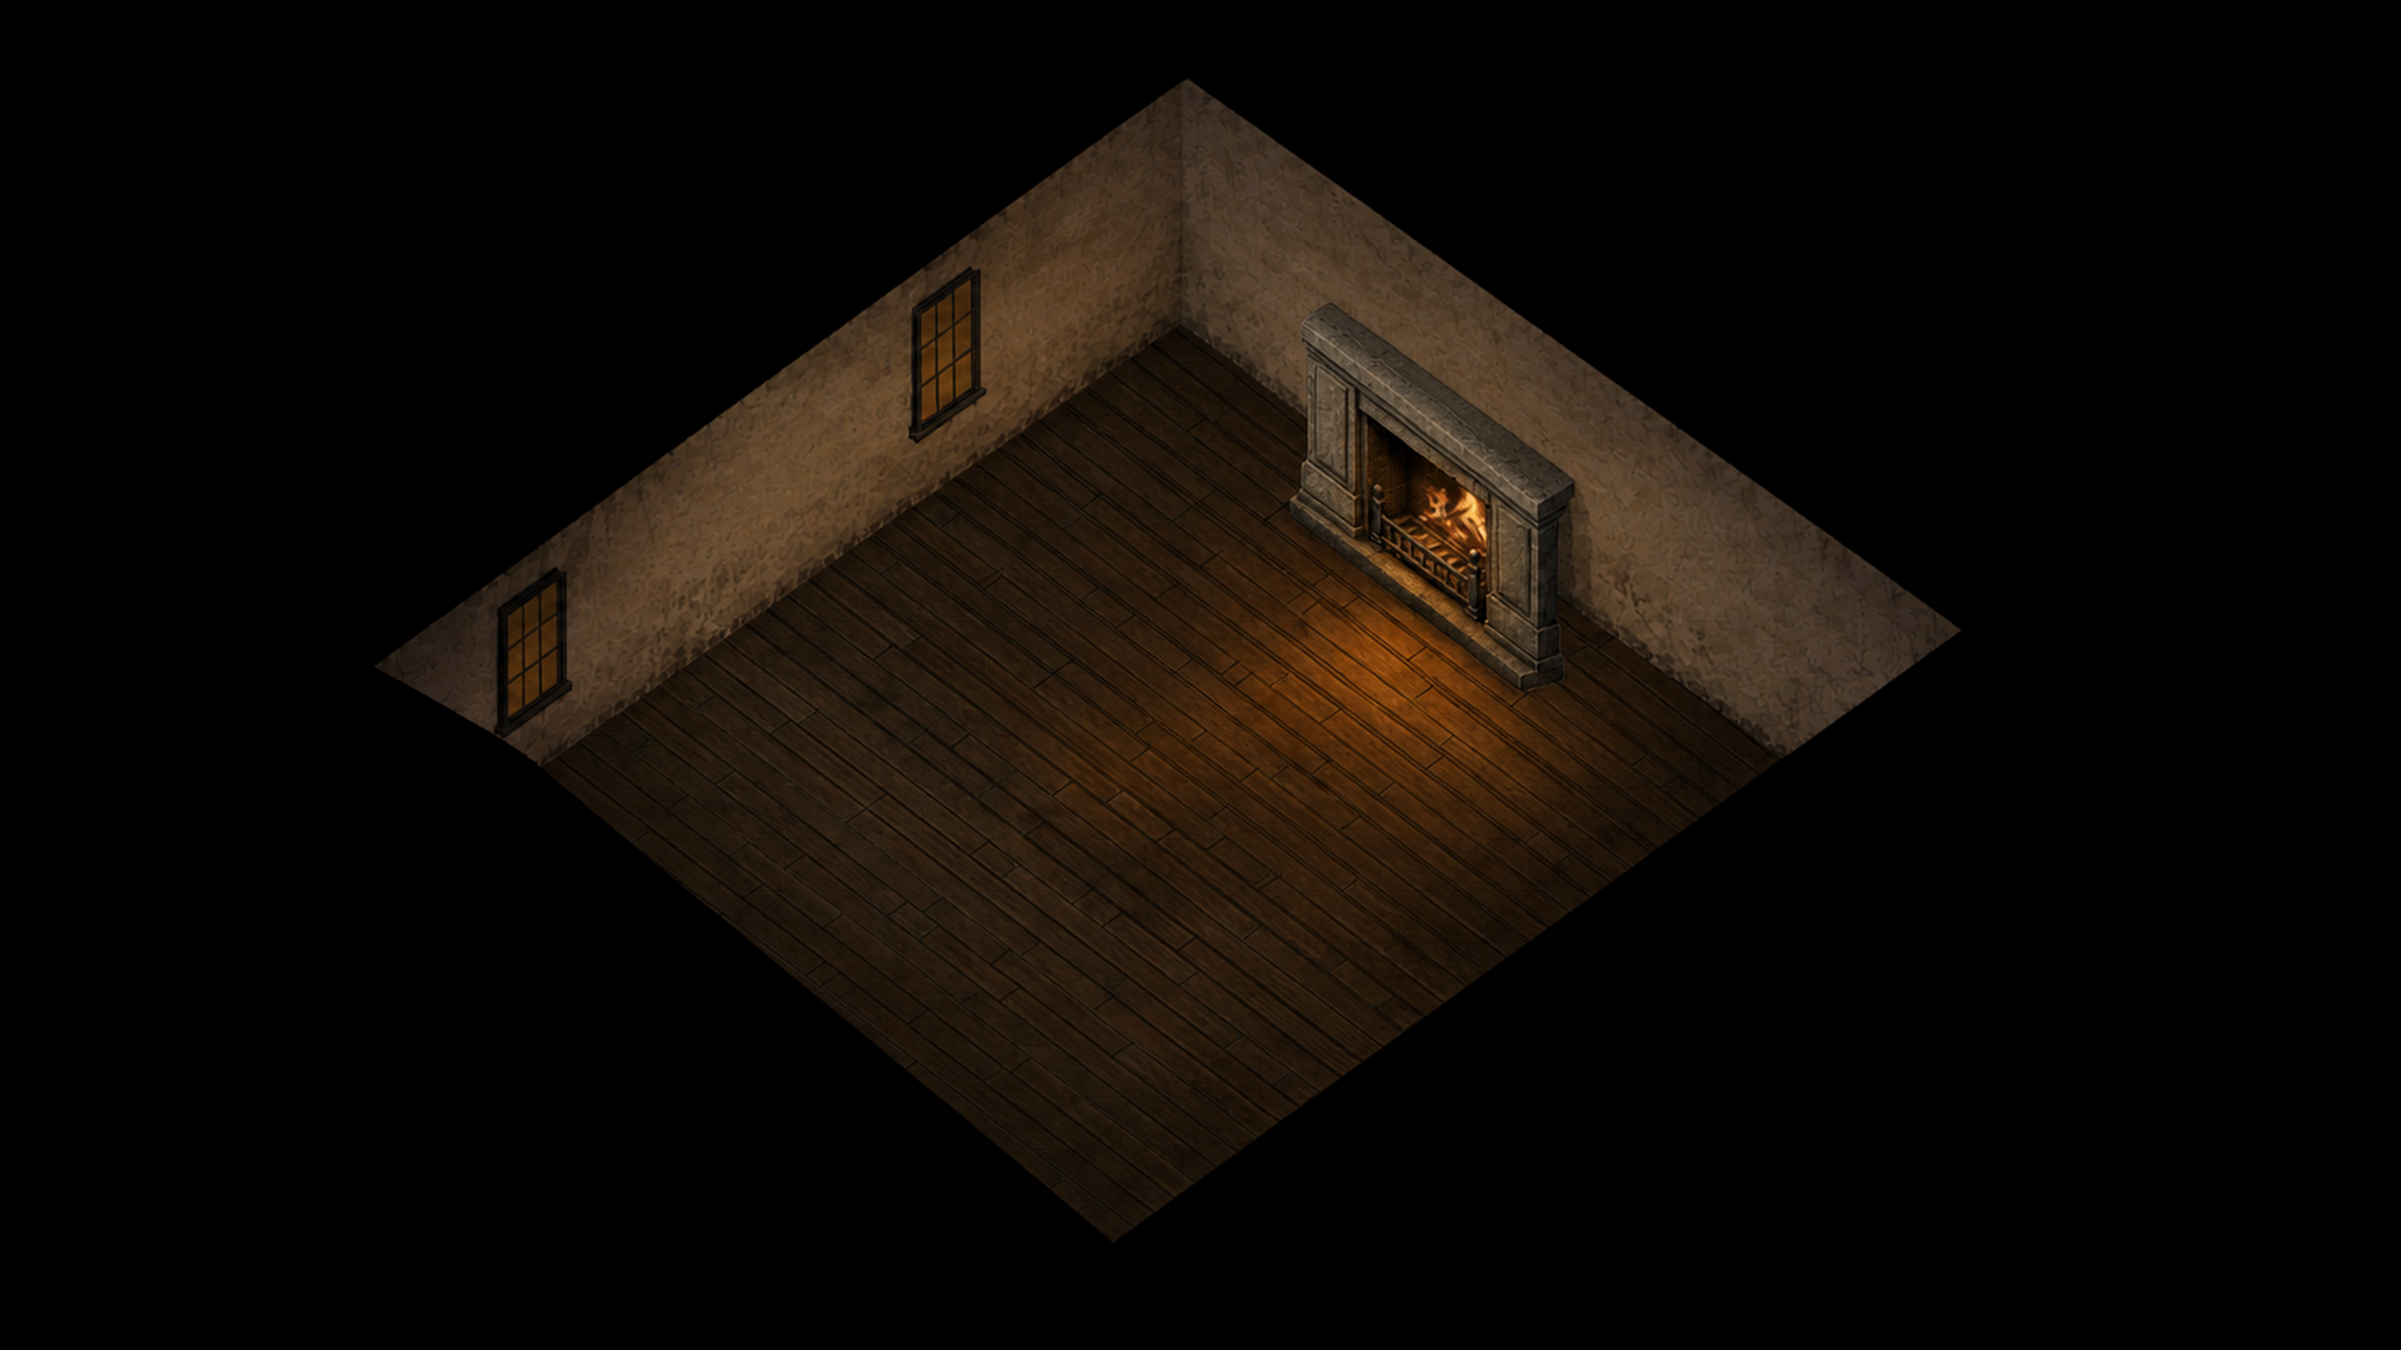
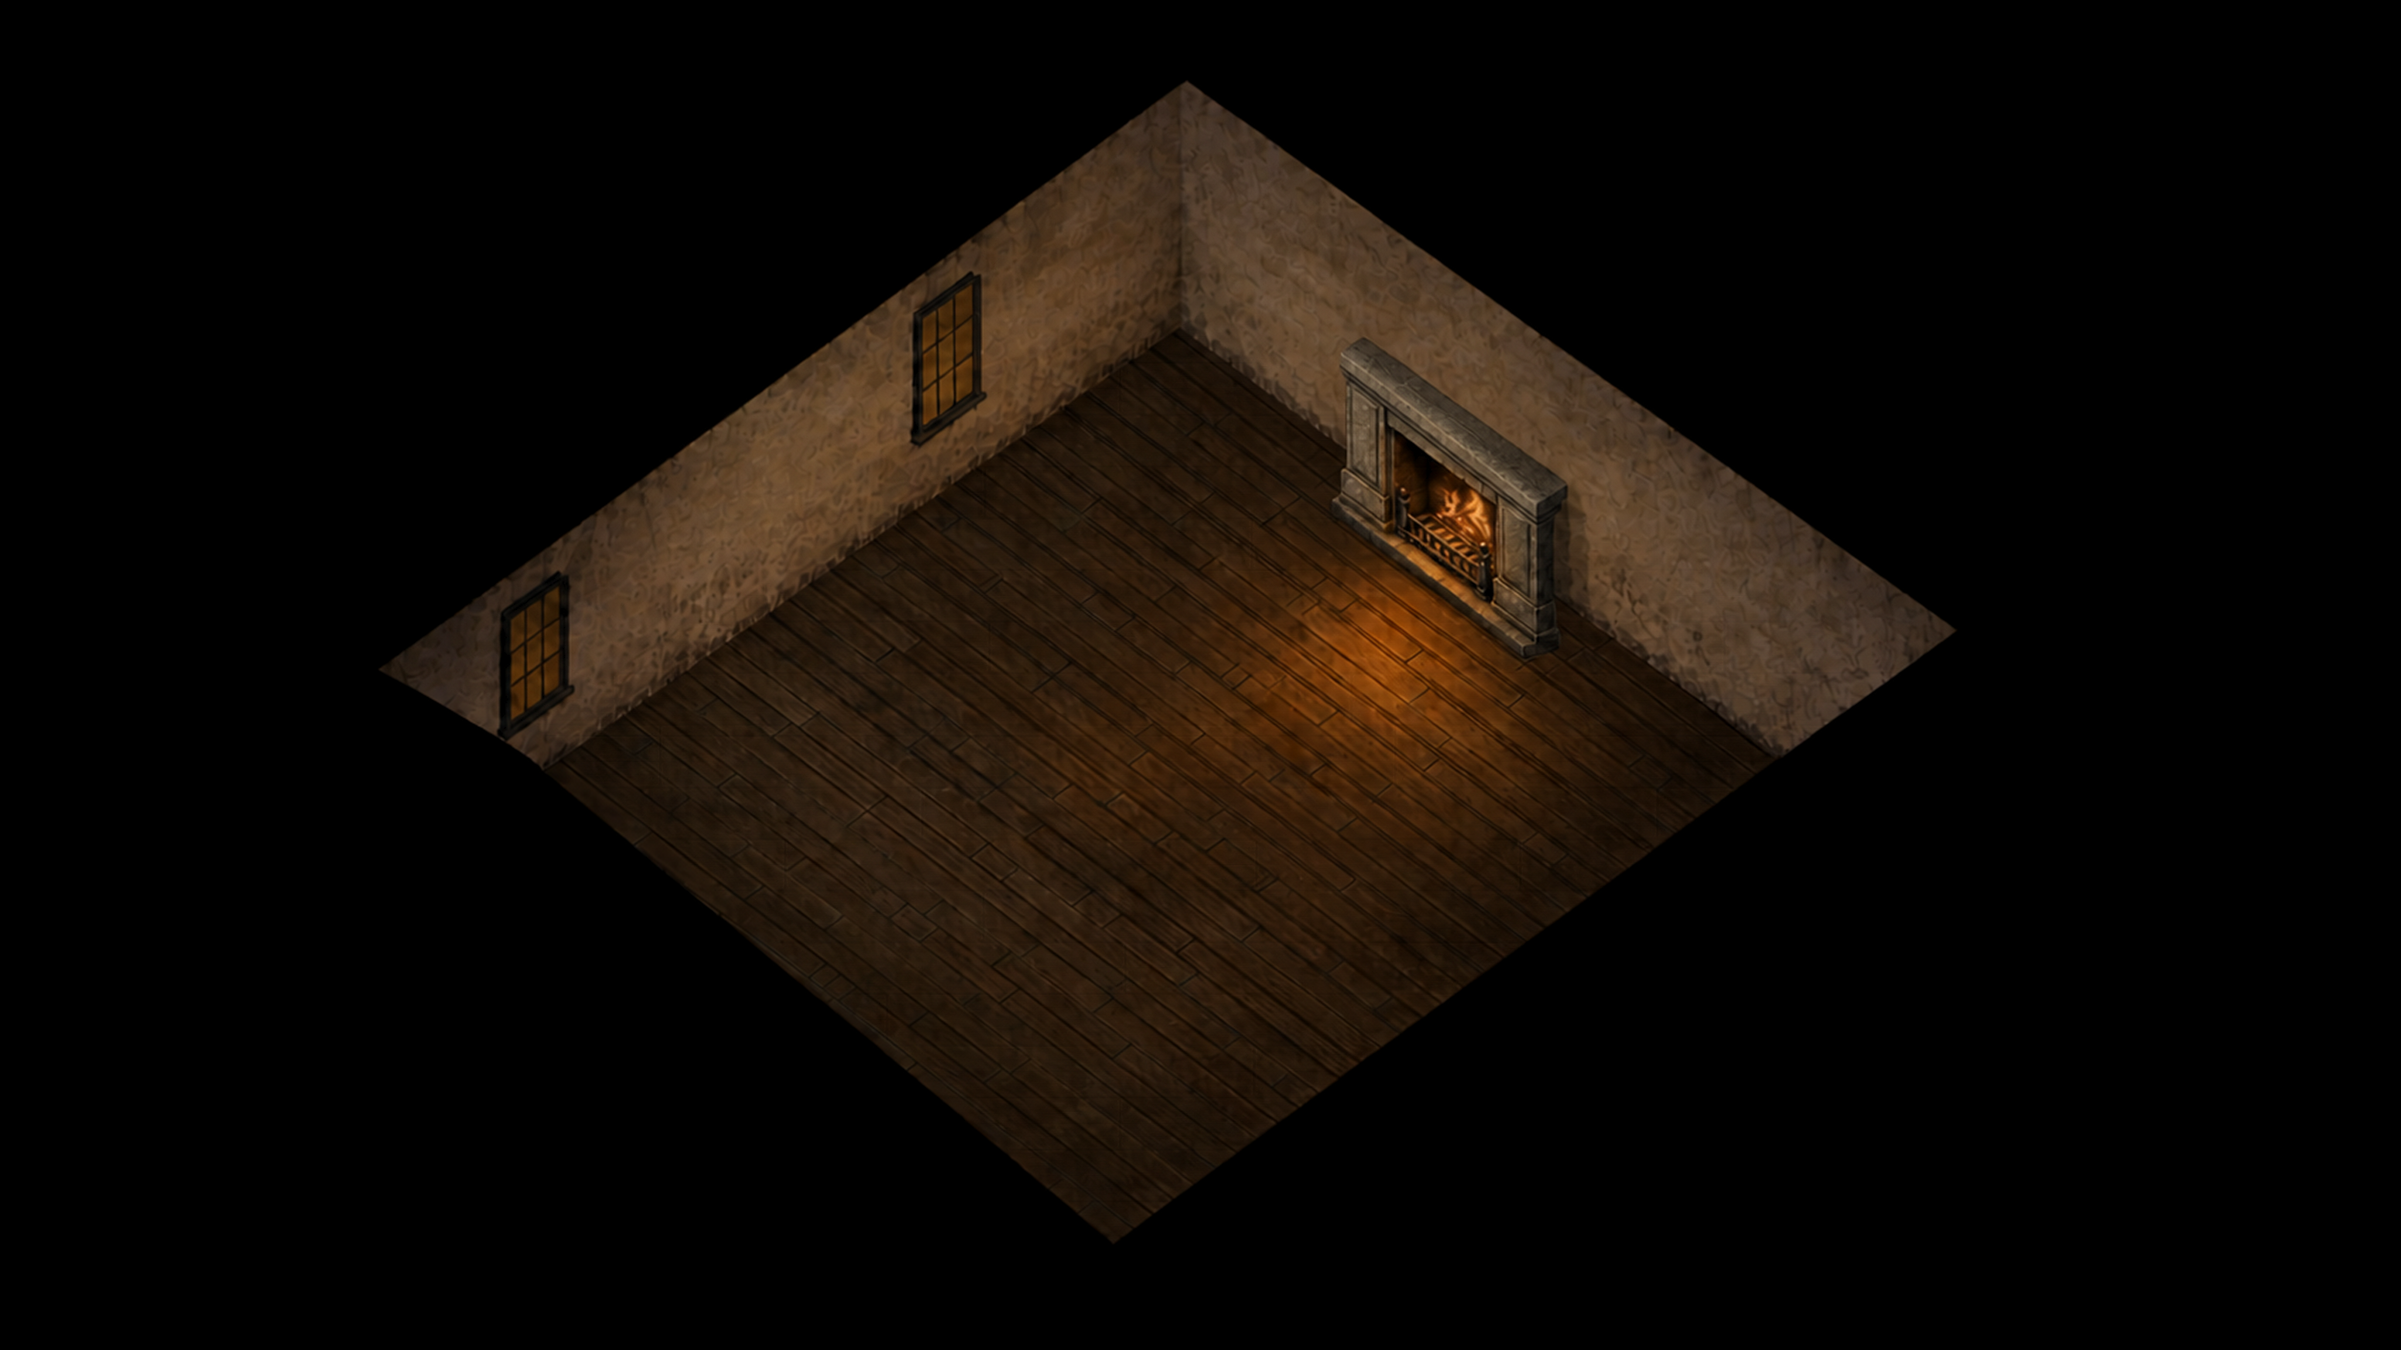
Correct fireplace scale lock in office reference rebuild

diff --git a/ArtSource/Processing/qa_office_reference_rebuild_v12.py b/ArtSource/Processing/qa_office_reference_rebuild_v12.py
@@ -53,6 +53,46 @@ def polygon_mask(size: tuple[int, int], polygon: list[list[float]]) -> np.ndarra
     return np.asarray(image, dtype=np.uint8) > 0
 
 
+def fireplace_source_envelope(path: Path) -> list[int]:
+    """Measure the connected low-chroma stone relief on the frozen source."""
+    rgb = np.asarray(Image.open(path).convert("RGB"), dtype=np.float32) / 255.0
+    maximum = rgb.max(axis=2)
+    minimum = rgb.min(axis=2)
+    saturation = (maximum - minimum) / np.maximum(maximum, 1e-6)
+    stone = (saturation < 0.48) & (maximum > 0.16) & (maximum < 0.70)
+    roi = np.zeros(stone.shape, dtype=bool)
+    roi[170:520, 850:1200] = stone[170:520, 850:1200]
+    components: list[tuple[int, list[int]]] = []
+    visited = np.zeros(roi.shape, dtype=bool)
+    for seed_y, seed_x in np.argwhere(roi):
+        if visited[seed_y, seed_x]:
+            continue
+        stack = [(int(seed_y), int(seed_x))]
+        visited[seed_y, seed_x] = True
+        count = 0
+        min_x = max_x = int(seed_x)
+        min_y = max_y = int(seed_y)
+        while stack:
+            y, x = stack.pop()
+            count += 1
+            min_x, max_x = min(min_x, x), max(max_x, x)
+            min_y, max_y = min(min_y, y), max(max_y, y)
+            for next_y, next_x in ((y - 1, x), (y + 1, x), (y, x - 1), (y, x + 1)):
+                if (
+                    0 <= next_y < roi.shape[0]
+                    and 0 <= next_x < roi.shape[1]
+                    and roi[next_y, next_x]
+                    and not visited[next_y, next_x]
+                ):
+                    visited[next_y, next_x] = True
+                    stack.append((next_y, next_x))
+        if count > 100:
+            components.append((count, [min_x, min_y, max_x + 1, max_y + 1]))
+    if not components:
+        raise RuntimeError("fireplace stone envelope was not detected")
+    return max(components, key=lambda component: component[0])[1]
+
+
 def main() -> int:
     required = [
         generator.SOURCE,
@@ -94,7 +134,7 @@ def main() -> int:
     checks.append((
         "source identities",
[3 lines of base64/hex data omitted]
         f"reference={sha256(generator.TARGET_REFERENCE)[:12]} redraw={sha256(generator.SOURCE)[:12]}",
     ))
     checks.append((
@@ -151,6 +191,28 @@ def main() -> int:
     ))
 
     fireplace = geometry["fireplace"]
+    visual_scale = metrics["fireplace"]["visualScaleLock"]
+    measured_envelope = fireplace_source_envelope(generator.SOURCE)
+    envelope_width = measured_envelope[2] - measured_envelope[0]
+    envelope_height = measured_envelope[3] - measured_envelope[1]
+    checks.append((
+        "fireplace visible envelope",
+        measured_envelope == visual_scale["sourceEnvelope"]
+        and 155 <= envelope_width <= 166
+        and 185 <= envelope_height <= 198,
+        f"source={measured_envelope} size={envelope_width}x{envelope_height}",
+    ))
+    registered_facade_height = float(fireplace["facadeHeight"])
+    plate_jamb_height = float(visual_scale["plateJambHeightPixels"])
+    adult_ratio = float(visual_scale["fireplaceToAdultRatio"])
+    ratio_range = visual_scale["targetFireplaceToAdultRange"]
+    checks.append((
+        "fireplace humanoid scale lock",
+        abs(plate_jamb_height - registered_facade_height) <= 1.0
+        and float(ratio_range[0]) <= adult_ratio <= float(ratio_range[1])
+        and abs(float(visual_scale["standingAdultWorldHeight"]) - 70.3125) <= 1e-9,
+        f"jamb={plate_jamb_height:.2f}/{registered_facade_height:.2f}px ratio={adult_ratio:.3f} adults",
+    ))
     fire_region = polygon_mask((4096, 2304), fireplace["targetCoverPolygon"])
     fire_pixels = plate[fire_region]
     hot = (

diff --git a/ArtSource/Processing/generate_office_reference_rebuild_v12.py b/ArtSource/Processing/generate_office_reference_rebuild_v12.py
@@ -70,6 +70,18 @@ UNIFORM_REGISTRATION = {
     "translate": [-18.977005846854127, 3.184540846076839],
 }
 
+# V12 fireplace correction, measured on the frozen 1672x941 source.  The
+# visible stone envelope is machine-remeasured by QA; the jamb height is the
+# floor-contact-to-mantel dimension that can be compared honestly with an
+# upright actor.  At the registered plate/environment scales it lands within
+# 0.2 px of the older V11 facade and at 1.73 standing-adult heights.
+FIREPLACE_VISUAL_SCALE_LOCK = {
+    "sourceEnvelope": [956, 235, 1117, 427],
+    "sourceJambHeightPixels": 128.0,
+    "standingAdultWorldHeight": 70.3125,
+    "targetFireplaceToAdultRange": [1.65, 1.80],
+}
+
 
 def sha256(path: Path) -> str:
     digest = hashlib.sha256()
@@ -436,6 +448,24 @@ def build_assets() -> dict[str, Image.Image | dict[str, object]]:
         "fireplace": {
             "state": "lit",
             "collisionAndCoverAuthority": geometry["fireplace"],
+            "visualScaleLock": {
+                **FIREPLACE_VISUAL_SCALE_LOCK,
+                "plateJambHeightPixels": (
+                    FIREPLACE_VISUAL_SCALE_LOCK["sourceJambHeightPixels"] * scale
+                ),
+                "worldJambHeight": (
+                    FIREPLACE_VISUAL_SCALE_LOCK["sourceJambHeightPixels"]
+                    * scale
+                    * float(geometry["environmentScale"])
+                ),
+                "fireplaceToAdultRatio": (
+                    FIREPLACE_VISUAL_SCALE_LOCK["sourceJambHeightPixels"]
+                    * scale
+                    * float(geometry["environmentScale"])
+                    / FIREPLACE_VISUAL_SCALE_LOCK["standingAdultWorldHeight"]
+                ),
+                "measurement": "same-side floor contact to mantel; axis-aligned whole-fixture bounds are not a humanoid-height measure",
+            },
         },
         "densityRestoration": {
             "floorDetailSource": FLOOR_DETAIL.name,

diff --git a/ArtSource/Prompts/GenerationLog.md b/ArtSource/Prompts/GenerationLog.md
@@ -301,4 +301,4 @@ All prompts use the supplied Baldur's Gate-era screenshots as style-analysis ref
 - **Harlan Voss exact-reference V17 replacement (2026-08-08):** copied and SHA-256-locked the three supplied RGB detective references under `PreRendered3DV17/References`, generated and approved front/profile/back/dimetric identity anchors, nine direction keys, a smooth 1024×1536 RGBA paperdoll and separate 512×512 portrait. Freehand SW gait attempts were rejected for foot/head/torso drift. `render_voss_v17_pose_controlled.py` instead produced all 148 masters deterministically from the authoritative pose geometry, transferring the frozen dark-brown/cream/black/charcoal/skin/auburn identity and registering each walk facing to a stable upper body with alternating planted feet. `install_voss_v17.py` applies V14, LAB+luminance gates, exact mirror/reversal/compatibility derivations, 208-texture staging, seven-payload backup/rollback, and installed the passing payload. Prior runtime: `RuntimeBackupPreRendered3DV17Prior/v17-20260808T162446Z`; contract: `Prompts/character_exact_reference_v17.md`; status: `Documentation/VossV17ExactReferenceProduction.md`.
 - **V17 original-render gameplay review (2026-08-08):** player review preferred the untouched Image Generator actor over the deterministic pose-transfer version. The first exception install used the nine direction keys for idle and eight static walk facings, with the original SW gait proof as the sole moving direction. This historical runtime is backed up at `RuntimeBackupPreRendered3DV17OriginalsPrior/v17-originals-20260808T170525Z`.
 - **V17 animated-original locomotion install (2026-08-09):** at player request, `install_voss_v17_originals.py` now V14-processes all 36 original authored idle masters and all 72 original authored walk masters from `PreRendered3DV17/Frames`, without the deterministic upper-body pose lock. The known gait/head/torso/loop mistakes remain deliberately reviewable, while the installer requires distinct processed phases, hard alpha, 200px registration, row-433 feet, and exact canonical names. It replaces only `VossIdle.atlas` and `VossWalk.atlas` file-by-file so iCloud cannot merge stale atlas-directory contents; resurrected `* 2.png` files are moved to `AnimatedOriginalGameplay/RuntimeDuplicateQuarantine`. Seated/transitions/UI remain unchanged. Prior static atlases: `RuntimeBackupPreRendered3DV17AnimatedPrior/v17-animated-20260809T083520Z`.
-- **Detective office reference rebuild V12 (2026-08-21):** rebuilt the office architecture with the built-in Image Generator from the user's supplied warm isometric-room reference while preserving the V11 gameplay registration as a bounded uniform transform. The installed 4096×2304 plate replaces institutional plaster, cold windows, and the empty monumental hearth with aged plaster, dark timber, two dim amber casements, and a lit traditional fireplace. The records, radiator, and personal sideboard clusters were moved off wall/black pixels onto the floor; obsolete blue window spill/blind overlays were retired; area JSON and the 16×12 search map were rebaked. Tight projection QA measures **+35.84°/−35.69°** (worst delta **1.18°**), deterministic regeneration is pixel-identical, and all 847 Swift tests plus both app builds pass. Prompt: `Prompts/office_reference_rebuild_v12.md`.
+- **Detective office reference rebuild V12 (2026-08-21; fireplace scale corrected 2026-08-22):** rebuilt the office architecture with the built-in Image Generator from the user's supplied warm isometric-room reference while preserving the V11 gameplay registration as a bounded uniform transform. The installed 4096×2304 plate replaces institutional plaster, cold windows, and the empty monumental hearth with aged plaster, dark timber, two dim amber casements, and a lit traditional fireplace. A follow-up Baldur's Gate humanoid-scale audit found the painted fireplace at about 2.15–2.20 adult heights even though its registered facade was 1.73; two precise-object edits reduced it to 128-pixel source jambs / 308.53 plate pixels / **1.733 adults** while leaving the 70.3125-unit humanoids and 78.21-unit doorway unchanged. QA now machine-measures the 161×192 source stone envelope and gates a 1.65–1.80 adult band. The records, radiator, and personal sideboard clusters were moved off wall/black pixels onto the floor; obsolete blue window spill/blind overlays were retired; area JSON and the 16×12 search map were rebaked. Tight projection QA after the scale correction measures **+35.83°/−36.08°** (worst delta **1.04°**) and deterministic regeneration is pixel-identical. All 894 Swift tests and both iOS Simulator and macOS builds pass. Prompt: `Prompts/office_reference_rebuild_v12.md`.

diff --git a/ArtSource/Prompts/office_reference_rebuild_v12.md b/ArtSource/Prompts/office_reference_rebuild_v12.md
@@ -47,6 +47,43 @@ pixels. `qa_office_reference_rebuild_v12.py` gates pure-black exterior,
 deterministic reproduction, warm fire and spill, masks, interactive-window
 registration, and a tight 1.5-degree projection tolerance.
 
+## Fireplace humanoid-scale correction
+
+Runtime comparison against the supplied Baldur's Gate gameplay capture found
+that the V12 redraw's fireplace jamb was about 2.15–2.20 standing adults high,
+even though the V11 registered facade and the reference capture both land near
+1.7–1.8 adults. The humanoid was retained at its architecture-locked 70.3125
+world-unit body height; increasing it would make the 78.21-unit entrance
+opening shorter than the actor.
+
+The built-in Image Generator made a precise-object edit of the frozen V12
+source. The first pass reduced the fireplace height correctly but compressed
+its width too far. A second, targeted pass kept the corrected height and
+restored the wall-course width. The accepted source has a measured low-chroma
+stone envelope of 161×192 source pixels and 128-pixel same-side jambs. Under
+the unchanged 2.410423 uniform registration those jambs become 308.53 plate
+pixels, within 0.2 px of the 308.70-pixel registered facade; at environment
+scale 0.395 this is 1.733 standing-adult heights. The generated 1671-pixel-wide
+result received one pure-black exterior column of right padding to restore the
+required 1672×941 canvas without resizing any art.
+
+Accepted edit request, followed by one proportion-only correction:
+
+> Change only the fireplace: uniformly reduce the complete mantel, jambs,
+> firebox, fire, grate, hearth, and localized spill to 80%; keep its bottom on
+> the same wall/floor seam and target 128-pixel same-side jambs. Reconstruct
+> only the newly exposed plaster and boards; preserve the room, windows,
+> projection, canvas, and black exterior exactly.
+
+> Keep the corrected height unchanged and widen only the fireplace by about
+> 30%, yielding a final 155–160-pixel source width so the accepted result is
+> approximately 80% of the former fireplace in both dimensions.
+
+Frozen corrected source SHA-256:
[1 lines of base64/hex data omitted]
+`qa_office_reference_rebuild_v12.py` now remeasures the visible stone envelope
+and enforces the 1.65–1.80 adult-height band.
+
 ## Door correction
 
 The first V12 correction enlarged a tiny crop from the 1613×975 room reference

diff --git a/Documentation/AssetManifest.md b/Documentation/AssetManifest.md
@@ -54,7 +54,7 @@ Grade every new master with `qa_plate_projection.py` before installing it.
 | Class | Master target | Runtime target | Notes |
 |---|---:|---:|---|
 | Exterior plate | 6144×3456 | 3072×1728 | Downsample with mild area resampling; preserve rain-free base. |
-| Office suite plate | V11 original 1950s material/fixture sources over deterministic registered geometry | 4096×2304 @ env 0.395 | `BGEE1950sV11`; 2.5316 px/unit, measured +36.73°/−36.70°. Two fixed steel/blind windows and one cold fireplace are baked; the door leaf is not. V10 remains rollback provenance. |
+| Office suite plate | V12 reference-faithful redraw over deterministic V11 registered geometry | 4096×2304 @ env 0.395 | `BGEEReferenceV12`; 2.5316 px/unit, measured +35.83°/−36.08°. Two fixed amber windows and one lit fireplace are baked; its 308.53px same-side jamb is locked to 1.733 rendered adults. The door leaf is not baked. V11 remains geometry/rollback provenance. |
 | Full-canvas overlays | 2× listed runtime | Listed runtime | Preserve exact pixel registration with base. |
 | Actor frame | Generator master | 512×512 | Reduce to a 64px native body, widen torso/coat rows by 15% while keeping the head unchanged and ramping back to 1.0x through the lower body, harden alpha to a 1-bit silhouette, limit to a 64-color per-material ramp palette without dithering, enlarge to the fixed 200px texture body with nearest sampling, and register at the doubled ground pivot. SpriteKit displays the frame at 180×180 points with linear filtering. |
 | Small effects | 2× listed runtime | Listed runtime | Generate as source sheets where practical, then slice. |
